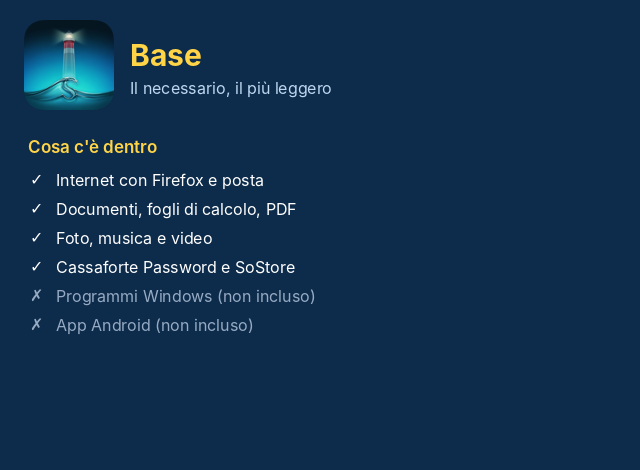
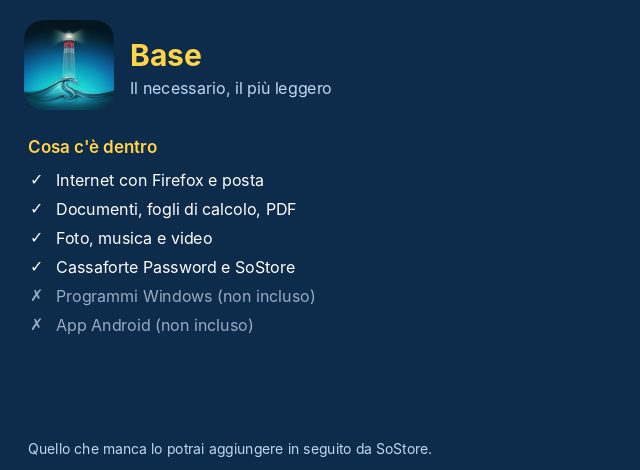
Livelli: si può aggiungere il resto da SoStore (verificato)
Claude-Session: https://claude.ai/code/session_01WGanj22VnQw9BFDcJV8uPd

Changed region(s): [[0.0312, 0.9234, 0.6875, 0.983]]

diff --git a/tools/crea_livelli.py b/tools/crea_livelli.py
@@ -29,4 +29,5 @@ for k, (t, s, si, no) in L.items():
     for x in no:
         d.text((30, y), "✗", font=ImageFont.truetype("/usr/share/fonts/truetype/dejavu/DejaVuSans.ttf", 16), fill=(150, 170, 195))
         d.text((56, y), x.split(" (")[0] + " (non incluso)", font=f("Regular", 16), fill=(150, 170, 195)); y += 29
+    if no: d.text((28, 440), "Quello che manca lo potrai aggiungere in seguito da SoStore.", font=f("Regular", 14), fill=(190, 215, 240))
     im.save(f"{D}/{k}.png")
